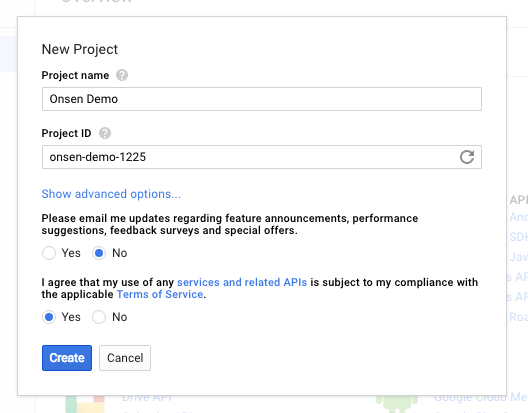
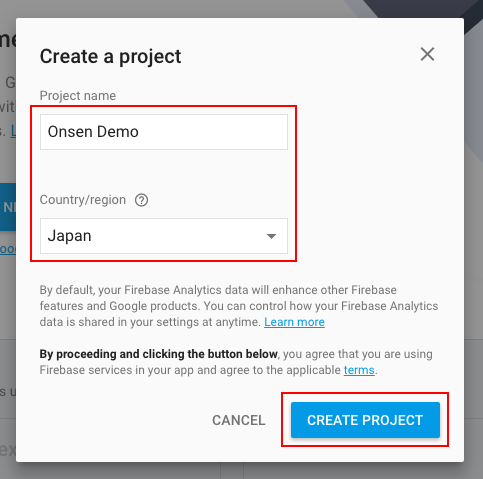
[update] Updated Android Push Notification page.

diff --git a/src/doc/backend/manual/push_notification/gcm.rst b/src/doc/backend/manual/push_notification/gcm.rst
@@ -9,22 +9,21 @@ Android App Push Notification Settings
 Overview 
 ================================================
 
-Monaca sends push notifications via GCM (Google Cloud Messaging). GCM is a mechanism offered by Google to send push notifications to Android applications. 
+Monaca sends push notifications via FCM (Firebase Cloud Messaging). FCM is a cross-platform messaging solution that lets you reliably deliver messages at no cost. Using FCM, you can notify a client app that new email or other data is available to sync. You can send notification messages to drive user reengagement and retention. For use cases such as instant messaging, a message can transfer a payload of up to 4KB to a client app.
 
 In this page, we will show what you need to do in order to enable push notifications service for Android applications with Monaca. 
-
 
 .. note:: You are required to have a Google account for this configuration. 
 
 
-Step 1: Enable GCM in the Google API Console
+Step 1: Get API Key from Firebase Console
 ================================================
 
-In this example, we assume that you haven't registered your application to Google Developer Console yet.
+In order to integrate Monaca with FCM, API key is required. Please follow the instruction below to get an API key from the Firebase Console:
 
-1. Go to `Google API Console <https://console.developers.google.com/>`_. and sign in with a valid Google account. 
+1. Go to `Firebase Console <https://console.firebase.google.com/>`_. and sign in with a valid Google account. 
 
-2. Click on :guilabel:`Create a project`.
+2. Click on :guilabel:`CREATE NEW PROJECT`.
 
   .. figure:: images/gcm/9.png
     :width: 700px
@@ -32,15 +31,15 @@ In this example, we assume that you haven't registered your application to Googl
 
   .. rst-class:: clear
 
-3. Input the project's name and click :guilabel:`Create`.
+3. Input a project's name and choose your country/region. Then, click :guilabel:`CREATE PROJECT`.
 
   .. figure:: images/gcm/1.png
-    :width: 500px
+    :width: 483px
     :align: left
 
   .. rst-class:: clear
 
-4. Go to Library panel and type ``Google Cloud Messaging`` in the search box. Then, select on ``Google Cloud Messaging`` in the search result as shown in the screenshot below.
+4. Once your project is created, go to :guilabel:`Project settings` from the left menu.
 
   .. figure:: images/gcm/2.png
     :width: 700px
@@ -48,7 +47,7 @@ In this example, we assume that you haven't registered your application to Googl
 
   .. rst-class:: clear
 
-5. Click :guilabel:`Enable`.
+5. In the Settings page, go to :guilabel:`CLOUD MESSAGING`. Then, you will be able to see the ``Server Key`` and ``Sender ID`` which will be used in Monaca later. The ``Server Key`` is used as an API key for the push notification and the ``Sender ID`` represents a sender. 
 
   .. figure:: images/gcm/10.png
     :width: 700px
@@ -56,68 +55,8 @@ In this example, we assume that you haven't registered your application to Googl
 
   .. rst-class:: clear
 
-Step 2: Obtain the Sender ID and Server API Key
-=====================================================
 
-
-Find Sender ID
-^^^^^^^^^^^^^^^^^^
-
-Sender ID is the Project Number which can be found in Settings page as shown below:
-
-
-1. Click on Google APIs menu.
-
-  .. figure:: images/gcm/11.png
-    :width: 250px
-    :align: left
-
-  .. rst-class:: clear
-
-2. Go to :guilabel:`IAM & Admin`.
-
-  .. figure:: images/gcm/12.png
-    :width: 700px
-    :align: left
-
-  .. rst-class:: clear
-
-3. Then, go to :guilabel:`Settings`. There you can find the project number.
-
-  .. figure:: images/gcm/3.png
-    :width: 700px
-    :align: left
-
-  .. rst-class:: clear
-
-
-Find Server API Key
-^^^^^^^^^^^^^^^^^^^^^^^^^^^^^^^^^^^^
-
-1. From the API Manager page, go to :guilabel:`Credentials`. 
-
-2. Click :guilabel:`Create credentials` and choose :guilabel:`API key`.
-
-  .. figure:: images/gcm/4.png
-    :width: 700px
-    :align: left
-
-  .. rst-class:: clear
-
-3. Select :guilabel:`Server key`. 
-
-4. Name your Server key and click :guilabel:`Create`.
-
-  .. figure:: images/gcm/5.png
-    :width: 700px
-    :align: left
-
-  .. rst-class:: clear
-
-
-5. Then, Server API key will be created and displayed as shown below. Copy it. You will need to use this key in Monaca Cloud IDE later. 
-
-Step 3: Configure GCM Parameters in Monaca
+Step 2: Configure FCM Parameters in Monaca
 ===================================================
 
 1. From the Backend Panel in Monaca Cloud IDE, go to :menuselection:`Push Notification --> Backend Settings --> Push Configuration`.
@@ -128,7 +67,7 @@ Step 3: Configure GCM Parameters in Monaca
 
   .. rst-class:: clear
 
-2. Under Android section, input the Sender ID and Server API Key and click :guilabel:`Save`. Then, the setup processes for Android app notifications are completed. 
+2. Under Android section, input the Sender ID and Server API Key and click :guilabel:`Save`. Now, the Android push notification is enabled and ready to use.
 
   .. figure:: images/gcm/8.png
     :width: 600px
